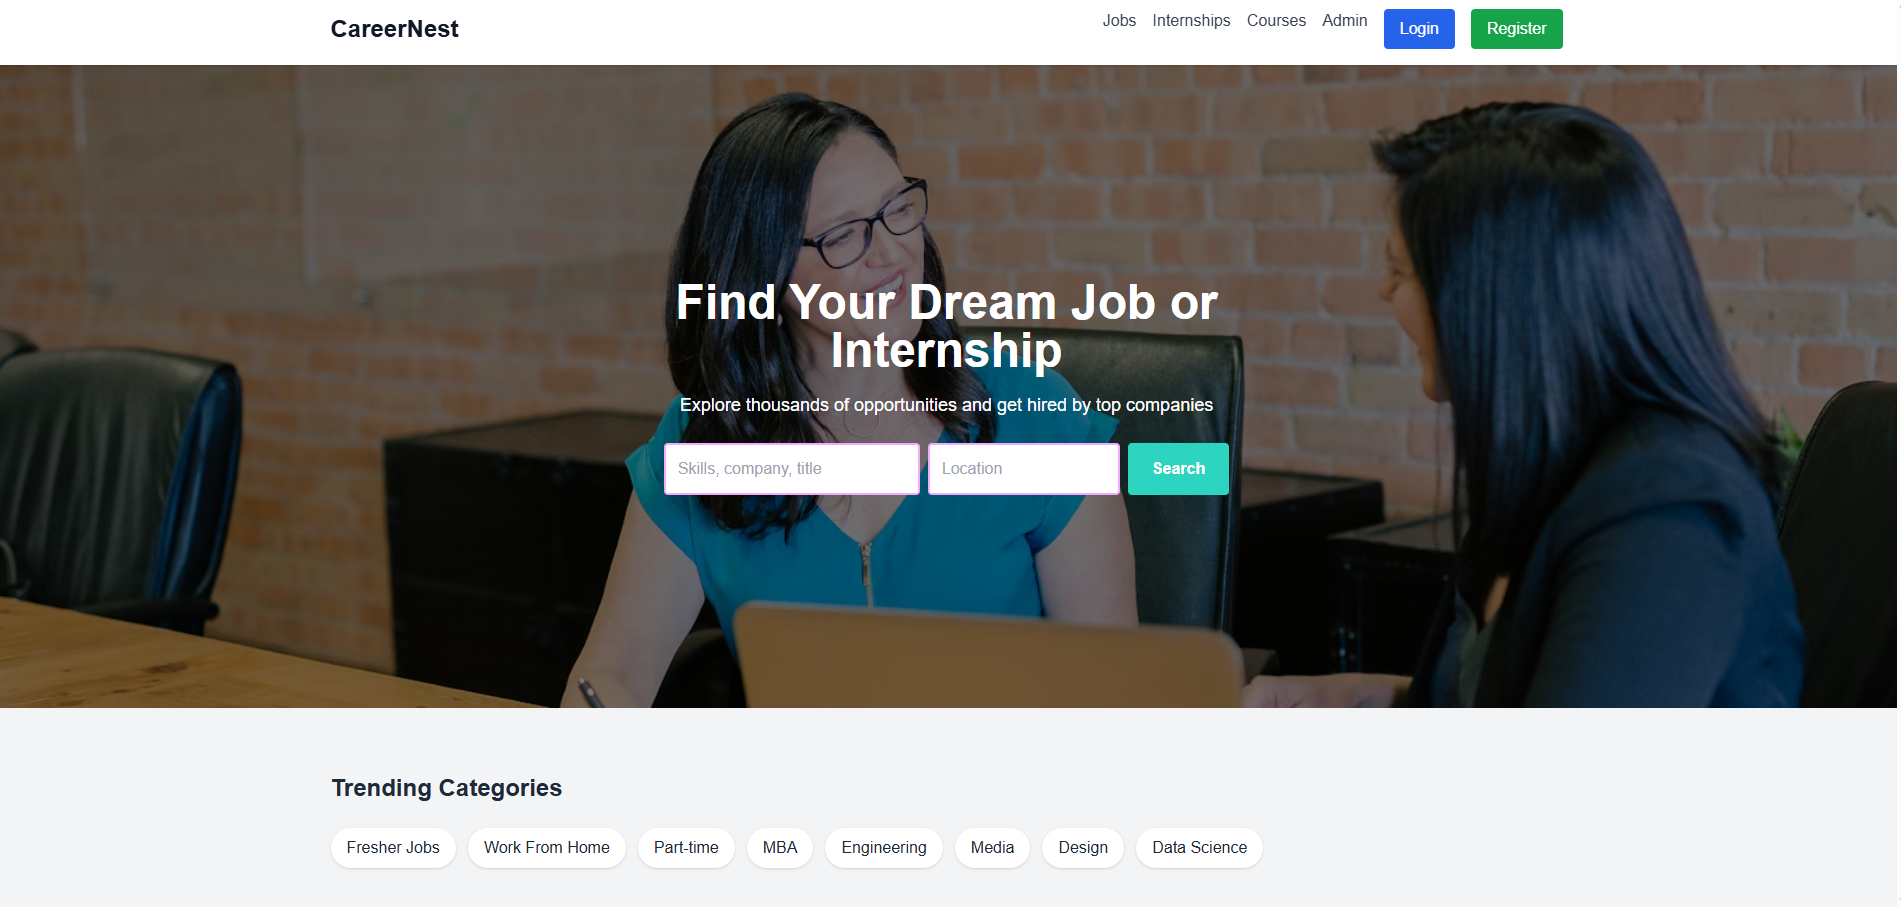
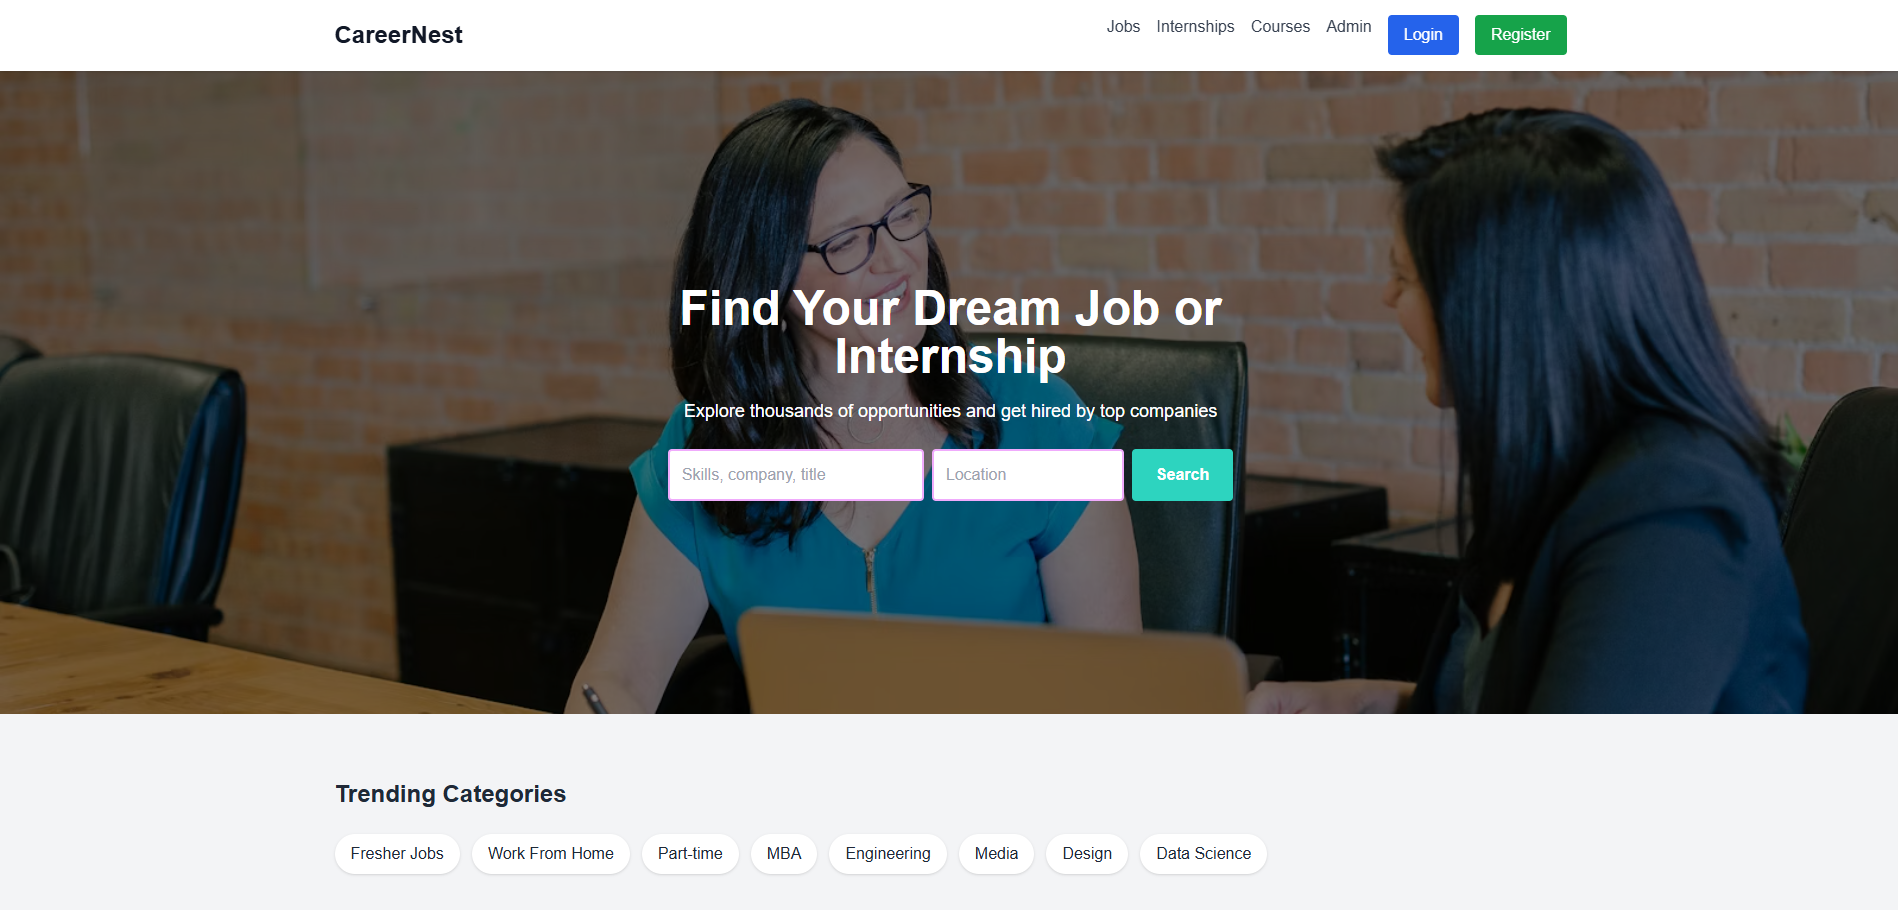
Added contact links and project demo buttons

diff --git a/src/constants/index.ts b/src/constants/index.ts
@@ -190,7 +190,7 @@ const projects: TProject[] = [
   ],
   image: jobit,
   sourceCodeLink: "https://github.com/perumalgullu/AI-Based-Smart-Attendance-System",
-  liveDemoLink: "#",
+  liveDemoLink: "https://ai-attendance-system-e254.onrender.com/",
 },
   {
   name: "AI Resume Builder App",
@@ -212,7 +212,7 @@ const projects: TProject[] = [
   ],
   image: tripguide,
   sourceCodeLink: "https://github.com/PerumalGullu/your-resume-builder-repo",
-  liveDemoLink: "#",
+  liveDemoLink: "https://drive.google.com/file/d/1m1bHIHo19awYOYkRaphubD97yi6czX-4/view?usp=sharing",
 },
  {
   name: "Internship Portal Website",

diff --git a/src/components/sections/Contact.tsx b/src/components/sections/Contact.tsx
@@ -144,7 +144,6 @@ const Contact = () => {
   icon={<LinkedInIcon />}
   className="bg-blue-600 hover:bg-blue-700"
 />
-
 <SocialButton
   href="https://mail.google.com/mail/?view=cm&fs=1&to=[email redacted]"
   label="Email"